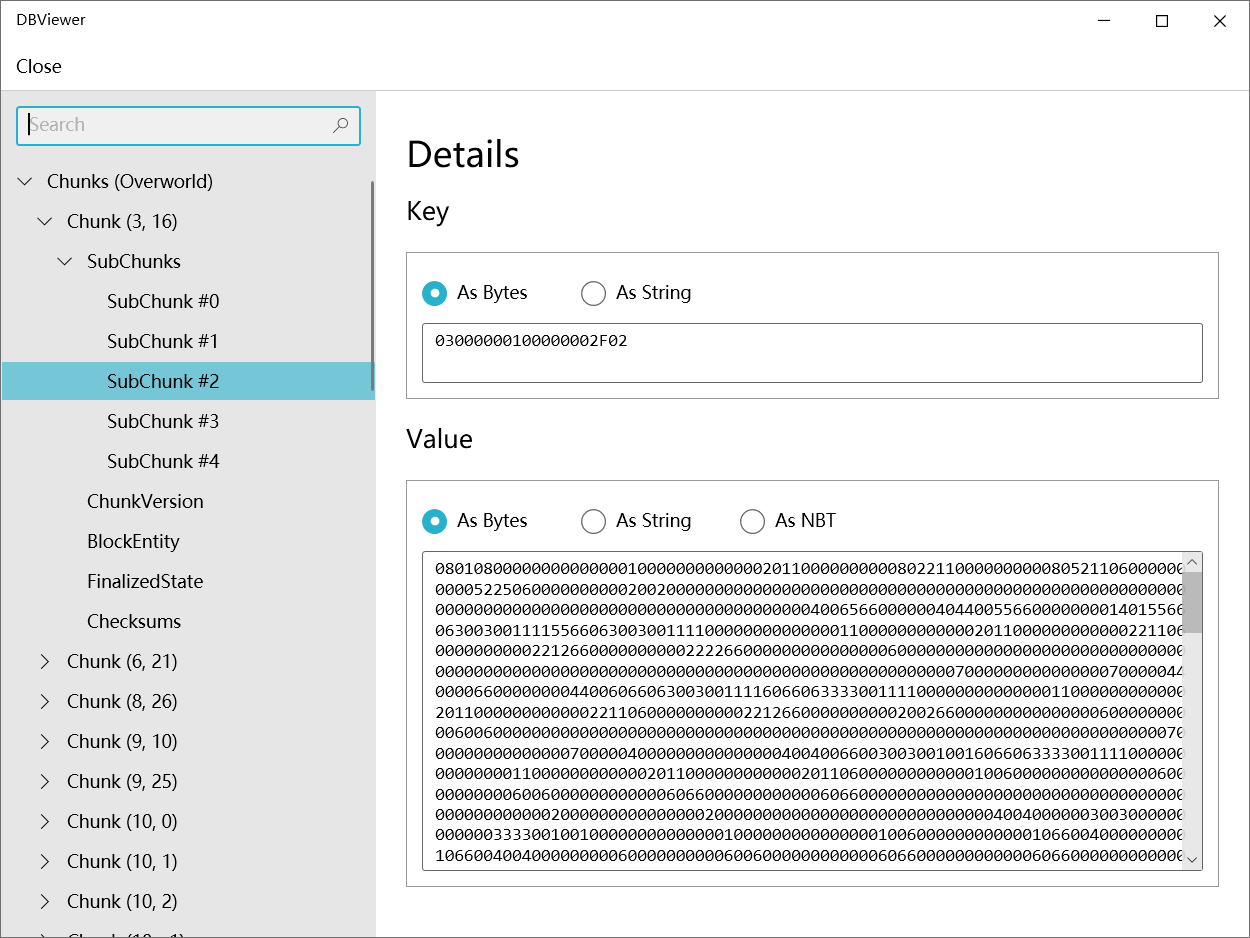
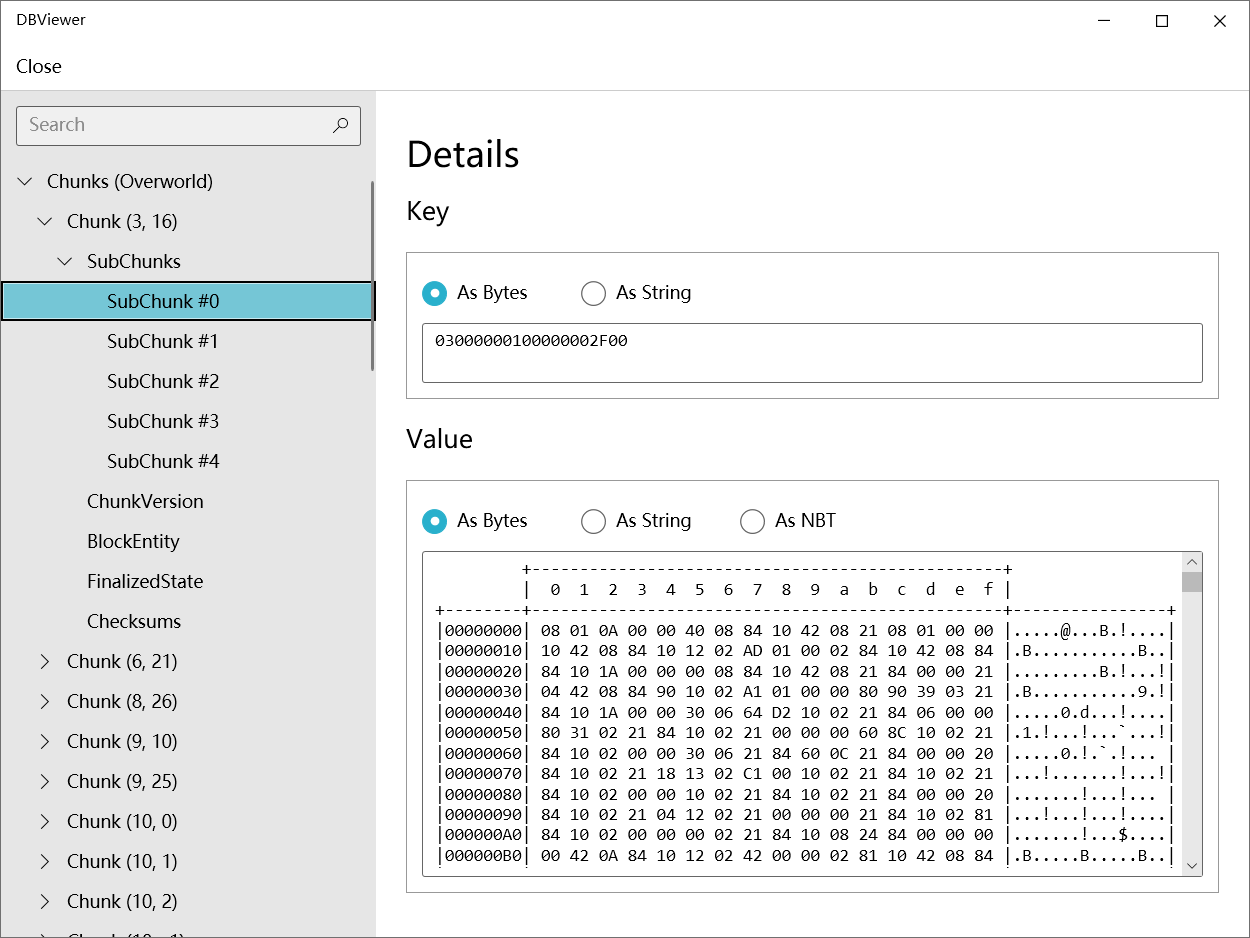
Add: prettyHexDump

diff --git a/DBViewer/MainWindow.xaml b/DBViewer/MainWindow.xaml
@@ -66,16 +66,17 @@
             </TreeView>
         </DockPanel>
 
-        <ui:SimpleStackPanel
+        <DockPanel
             Grid.Row="1"
             Grid.Column="1"
             Margin="24,20">
             <TextBlock
                 Margin="0,12,0,12"
+                DockPanel.Dock="Top"
                 FontSize="28"
                 Style="{StaticResource TitleTextBlockStyle}"
                 Text="Details" />
-            <GroupBox Header="Key">
+            <GroupBox DockPanel.Dock="Top" Header="Key">
                 <Border BorderBrush="{DynamicResource SystemControlForegroundBaseMediumLowBrush}" BorderThickness="1">
                     <ui:SimpleStackPanel Margin="12">
                         <ui:RadioButtons
@@ -102,9 +103,10 @@
 
             <GroupBox Header="Value">
                 <Border BorderBrush="{DynamicResource SystemControlForegroundBaseMediumLowBrush}" BorderThickness="1">
-                    <ui:SimpleStackPanel Margin="12">
+                    <DockPanel Margin="12">
                         <ui:RadioButtons
                             x:Name="valueTypeRadioButtons"
+                            DockPanel.Dock="Top"
                             MaxColumns="3"
                             SelectionChanged="OnRadioButtonChecked">
                             <RadioButton Content="As Bytes" IsChecked="True" />
@@ -114,7 +116,6 @@
 
                         <TextBox
                             x:Name="valueTextBox"
-                            Height="256"
                             Margin="0,8,0,0"
                             ui:ControlHelper.PlaceholderText="..."
                             FontFamily="Consolas"
@@ -122,10 +123,10 @@
                             IsReadOnly="True"
                             TextWrapping="Wrap"
                             VerticalScrollBarVisibility="Auto" />
-                    </ui:SimpleStackPanel>
+                    </DockPanel>
                 </Border>
             </GroupBox>
-        </ui:SimpleStackPanel>
+        </DockPanel>
     </Grid>
 
 </Window>

diff --git a/DBViewer/HexUtil.cs b/DBViewer/HexUtil.cs
@@ -1,0 +1,197 @@
+using System;
+using System.Collections.Generic;
+using System.Linq;
+using System.Text;
+using System.Threading.Tasks;
+
+namespace DBViewer
+{
+    class HexUtil
+    {
+
+        private static readonly String NEWLINE = "\n";
+        private static readonly char[] BYTE2CHAR = new char[256];
+        private static readonly char[] HEXDUMP_TABLE = new char[256 * 4];
+        private static readonly String[] HEXPADDING = new String[16];
+        private static readonly String[] HEXDUMP_ROWPREFIXES = new String[65536 >> 4];
+        private static readonly String[] BYTE2HEX = new String[256];
+        private static readonly String[] BYTEPADDING = new String[16];
+        private static readonly String[] BYTE2HEX_PAD = new String[256];
+
+        static HexUtil()
+        {
+            char[] DIGITS = "0123456789abcdef".ToCharArray();
+            for (int i = 0; i < 256; i++)
+            {
+                HEXDUMP_TABLE[i << 1] = DIGITS[i >> 4 & 0x0F];
+                HEXDUMP_TABLE[(i << 1) + 1] = DIGITS[i & 0x0F];
+            }
+
+            // Generate the lookup table that converts a byte into a 2-digit hexadecimal integer.
+            for (int i = 0; i < BYTE2HEX_PAD.Length; i++)
+            {
+                BYTE2HEX_PAD[i] = i.ToString("X2");
+            }
+
+            // Generate the lookup table for hex dump paddings
+            for (int i = 0; i < HEXPADDING.Length; i++)
+            {
+                int padding = HEXPADDING.Length - i;
+                StringBuilder buf = new StringBuilder(padding * 3);
+                for (int j = 0; j < padding; j++)
+                {
+                    buf.Append("   ");
+                }
+                HEXPADDING[i] = buf.ToString();
+            }
+
+            // Generate the lookup table for the start-offset header in each row (up to 64KiB).
+            for (int i = 0; i < HEXDUMP_ROWPREFIXES.Length; i++)
+            {
+                StringBuilder buf = new StringBuilder(12);
+                buf.Append(NEWLINE);
+                buf.Append((i << 4 & 0xFFFFFFFFL | 0x100000000L).ToString("X2"));
+                buf[buf.Length - 9] = '|';
+                buf.Append('|');
+                HEXDUMP_ROWPREFIXES[i] = buf.ToString();
+            }
+
+            // Generate the lookup table for byte-to-hex-dump conversion
+            for (int i = 0; i < BYTE2HEX.Length; i++)
+            {
+                BYTE2HEX[i] = ' ' + byteToHexStringPadded(i);
+            }
+
+            // Generate the lookup table for byte dump paddings
+            for (int i = 0; i < BYTEPADDING.Length; i++)
+            {
+                int padding = BYTEPADDING.Length - i;
+                StringBuilder buf = new StringBuilder(padding);
+                for (int j = 0; j < padding; j++)
+                {
+                    buf.Append(' ');
+                }
+                BYTEPADDING[i] = buf.ToString();
+            }
+
+            // Generate the lookup table for byte-to-char conversion
+            for (int i = 0; i < BYTE2CHAR.Length; i++)
+            {
+                if (i <= 0x1f || i >= 0x7f)
+                {
+                    BYTE2CHAR[i] = '.';
+                }
+                else
+                {
+                    BYTE2CHAR[i] = (char)i;
+                }
+            }
+        }
+
+        public static String prettyHexDump(byte[] buffer)
+        {
+            return prettyHexDump(buffer, 0, buffer.Length);
+        }
+
+        private static String prettyHexDump(byte[] buffer, int offset, int length)
+        {
+            if (length == 0)
+            {
+                return "";
+            }
+            else
+            {
+                int rows = length / 16 + ((length & 15) == 0 ? 0 : 1) + 4;
+                StringBuilder buf = new StringBuilder(rows * 80);
+                appendPrettyHexDump(buf, buffer, offset, length);
+                return buf.ToString();
+            }
+        }
+
+        private static void appendPrettyHexDump(StringBuilder dump, byte[] buf, int offset, int length)
+        {
+            if (length == 0)
+            {
+                return;
+            }
+            dump.Append(
+                              "         +-------------------------------------------------+" +
+                    NEWLINE + "         |  0  1  2  3  4  5  6  7  8  9  a  b  c  d  e  f |" +
+                    NEWLINE + "+--------+-------------------------------------------------+----------------+");
+
+            int fullRows = length >> 4;
+            int remainder = length & 0xF;
+
+            // Dump the rows which have 16 bytes.
+            for (int row = 0; row < fullRows; row++)
+            {
+                int rowStartIndex = (row << 4) + offset;
+
+                // Per-row prefix.
+                appendHexDumpRowPrefix(dump, row, rowStartIndex);
+
+                // Hex dump
+                int rowEndIndex = rowStartIndex + 16;
+                for (int j = rowStartIndex; j < rowEndIndex; j++)
+                {
+                    dump.Append(BYTE2HEX[buf[j] & 0xff]);
+                }
+                dump.Append(" |");
+
+                // ASCII dump
+                for (int j = rowStartIndex; j < rowEndIndex; j++)
+                {
+                    dump.Append(BYTE2CHAR[buf[j] & 0xff]);
+                }
+                dump.Append('|');
+            }
+
+            // Dump the last row which has less than 16 bytes.
+            if (remainder != 0)
+            {
+                int rowStartIndex = (fullRows << 4) + offset;
+                appendHexDumpRowPrefix(dump, fullRows, rowStartIndex);
+
+                // Hex dump
+                int rowEndIndex = rowStartIndex + remainder;
+                for (int j = rowStartIndex; j < rowEndIndex; j++)
+                {
+                    dump.Append(BYTE2HEX[buf[j] & 0xff]);
+                }
+                dump.Append(HEXPADDING[remainder]);
+                dump.Append(" |");
+
+                // Ascii dump
+                for (int j = rowStartIndex; j < rowEndIndex; j++)
+                {
+                    dump.Append(BYTE2CHAR[buf[j] & 0xff]);
+                }
+                dump.Append(BYTEPADDING[remainder]);
+                dump.Append('|');
+            }
+
+            dump.Append(NEWLINE +
+                        "+--------+-------------------------------------------------+----------------+");
+        }
+
+        private static void appendHexDumpRowPrefix(StringBuilder dump, int row, int rowStartIndex)
+        {
+            if (row < HEXDUMP_ROWPREFIXES.Length)
+            {
+                dump.Append(HEXDUMP_ROWPREFIXES[row]);
+            }
+            else
+            {
+                dump.Append(NEWLINE);
+                dump.Append((rowStartIndex & 0xFFFFFFFFL | 0x100000000L).ToString("X2"));
+                dump[dump.Length - 9] = '|';
+                dump.Append('|');
+            }
+        }
+
+        private static String byteToHexStringPadded(int value)
+        {
+            return BYTE2HEX_PAD[value & 0xff];
+        }
+    }
+}

diff --git a/DBViewer/MainWindow.xaml.cs b/DBViewer/MainWindow.xaml.cs
@@ -272,7 +272,7 @@ namespace DBViewer
             switch (valueTypeRadioButtons.SelectedIndex)
             {
                 case 0:
-                    valueTextBox.Text = hexDump(currentValue);
+                    valueTextBox.Text = HexUtil.prettyHexDump(currentValue);
                     break;
                 case 1:
                     valueTextBox.Text = asString(currentValue);
